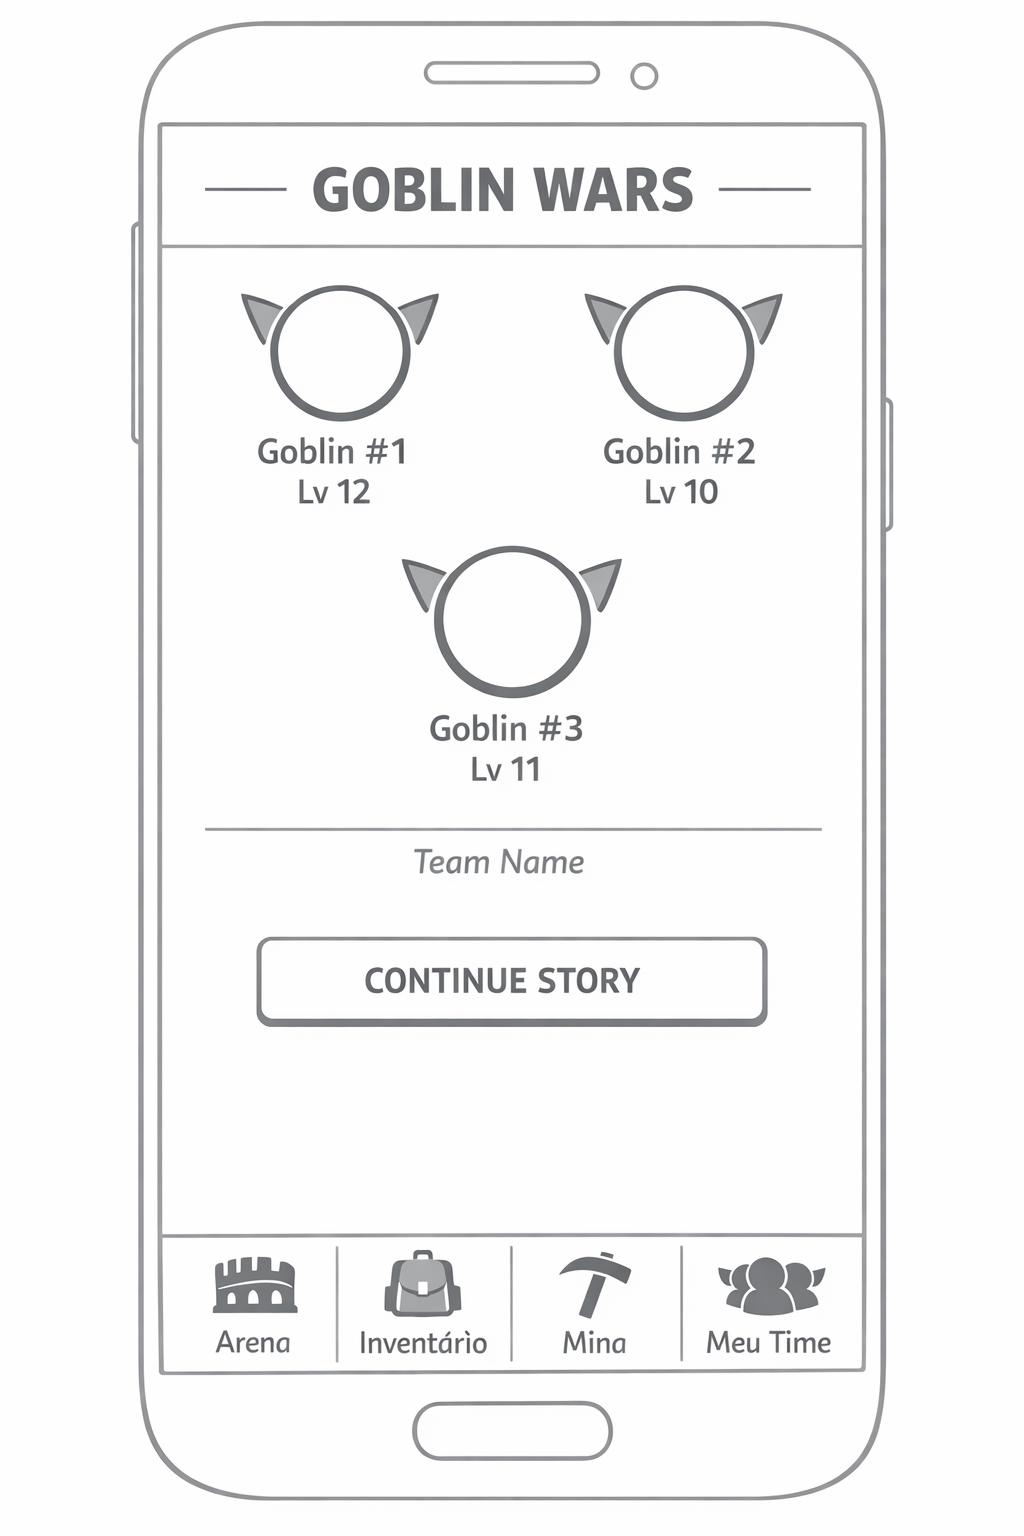
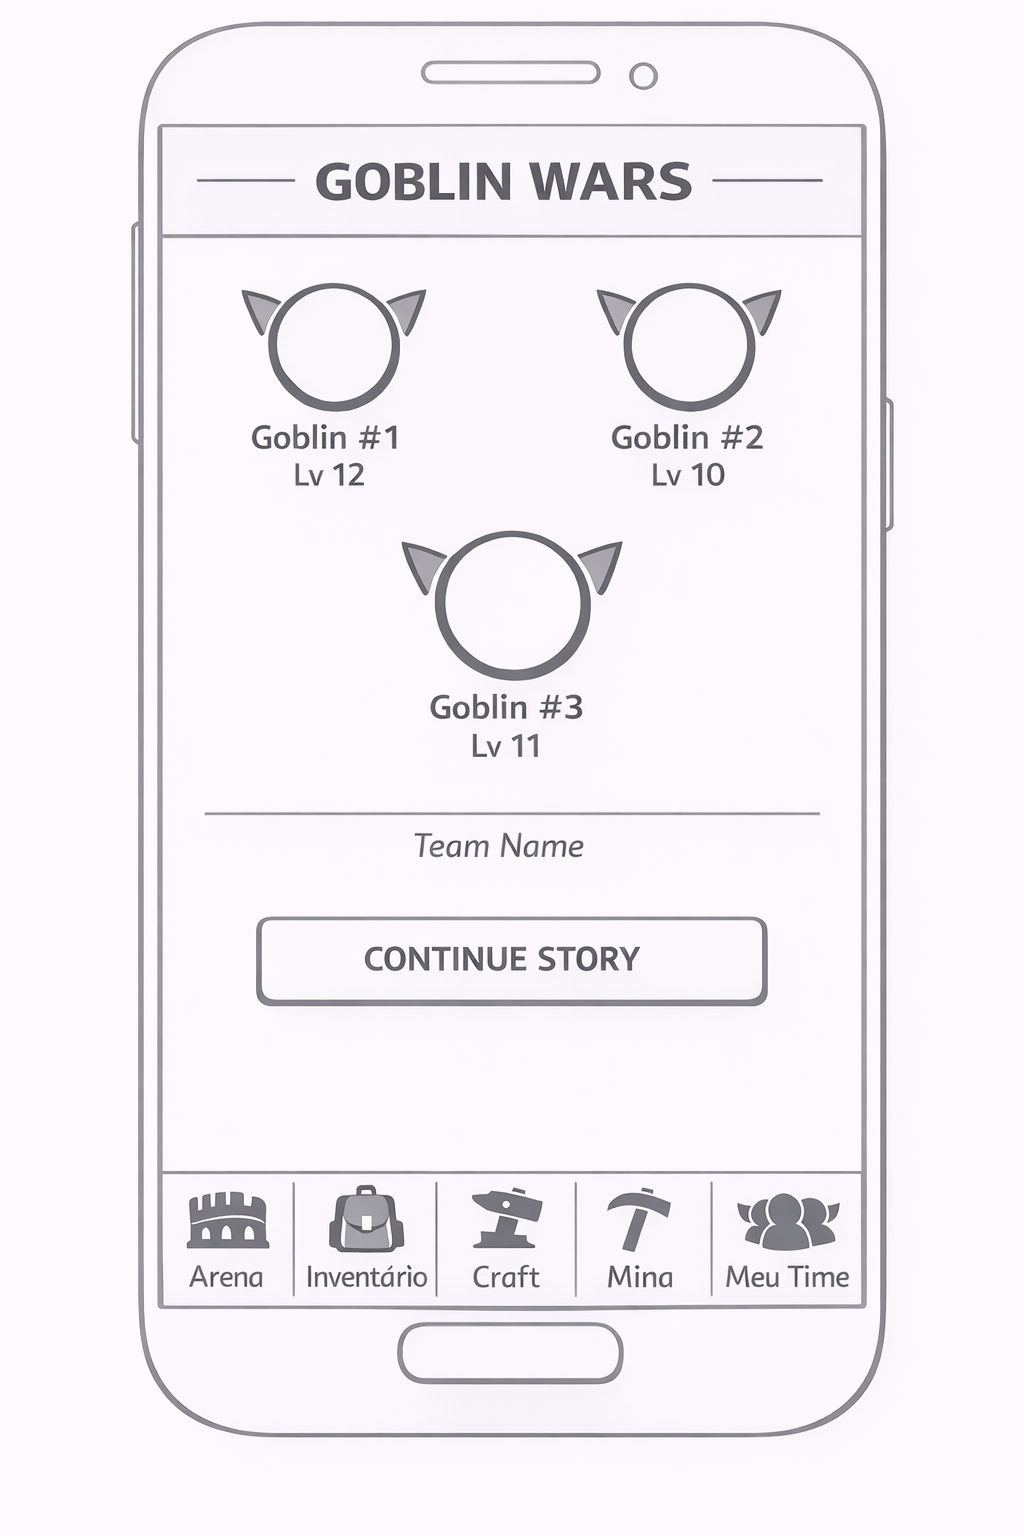
fix: add crafting on mobile.md

diff --git a/MOBILE.md b/MOBILE.md
@@ -10,8 +10,9 @@
 - **Menu Inferior**:
   1. Arena
   2. Inventário
-  3. Mina
-  4. Meu Time
+  3. Craft
+  4. Mina
+  5. Meu Time
 
 ---
 
@@ -93,7 +94,49 @@ Ao clicar no escudo:
 
 ---
 
-## 6. Mina
+## 6. Craft
+
+![Craft - Categorias](images/12-craft.png)
+
+### Lista de Categorias
+- **Grade de Craftings**: Lista de todas as categorias de crafting em 3 colunas
+  - Exemplos: Espadas, Escudos, Armaduras de Peito, etc.
+- **Navegação**: Botão "Voltar"
+
+### Tipos de Craft
+
+![Craft - Tipos](images/13-craft-tipos.png)
+
+Ao selecionar uma categoria:
+- Exibe lista dos crafts disponíveis dentro da categoria
+  - Exemplo categoria Espadas: Espada de madeira, Espada de ferro, Espada de aço, etc.
+- **Itens Indisponíveis**: Aparecem em cinza
+
+### Tela de Crafting
+
+![Crafting](images/14-crafting.png)
+
+Ao selecionar um crafting específico:
+
+**Informações do Item**:
+- Nome do item que será craftado (ex: Espada de Ferro)
+- Descrição resumida do item
+
+**Seleção e Tempo**:
+- Espaço para selecionar o goblin que irá craftar
+- Tempo gasto em horas e minutos para o crafting
+
+**Materiais Necessários**:
+- Lista dos materiais que serão usados em 4 colunas com quantidades
+- Mesmo modelo visual do inventário
+
+**Botões**:
+- "Craft" - Iniciar o crafting
+- "Voltar"
+
+---
+
+## 7. Mina
 
 ![Mina](images/07-mina.png)
 
@@ -106,7 +149,7 @@ Ao clicar no escudo:
 
 ---
 
-## 7. Meu Time
+## 8. Meu Time
 
 ![Meu Time](images/08-time.png)
 
@@ -128,7 +171,7 @@ Duas abas principais: "Meu Time" e "Meus Goblins"
 
 ---
 
-## 8. Tela do Goblin
+## 9. Tela do Goblin
 
 ![Detalhes do Goblin](images/10-goblin.png)
 
